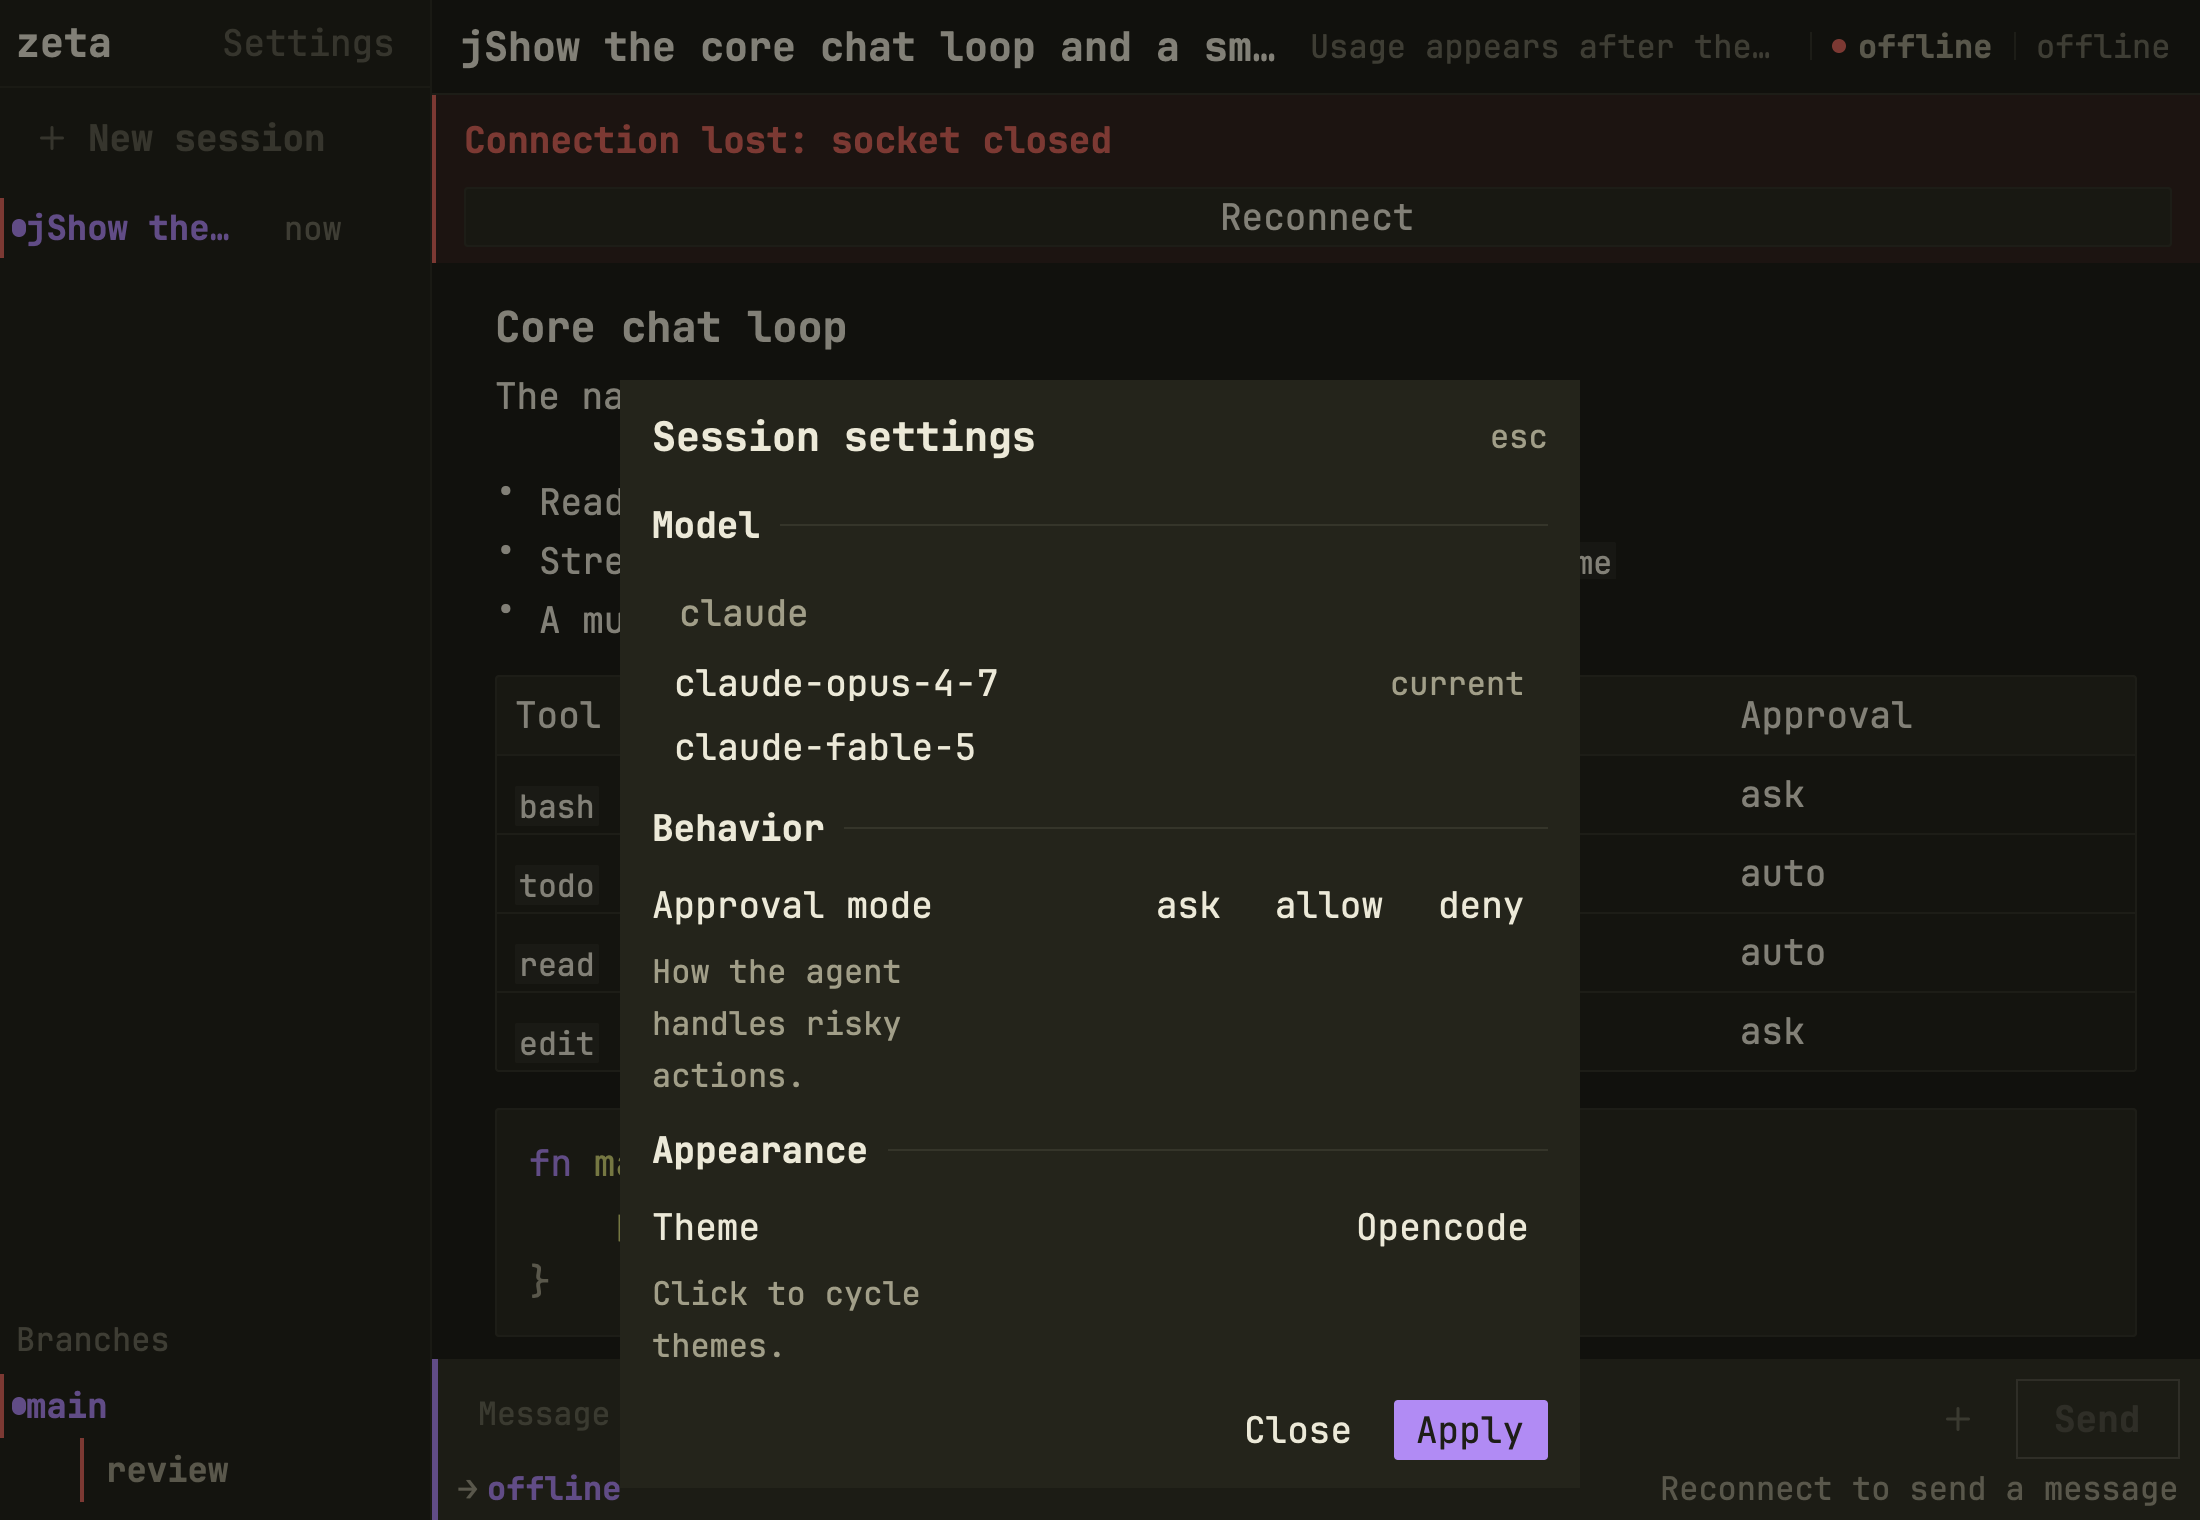
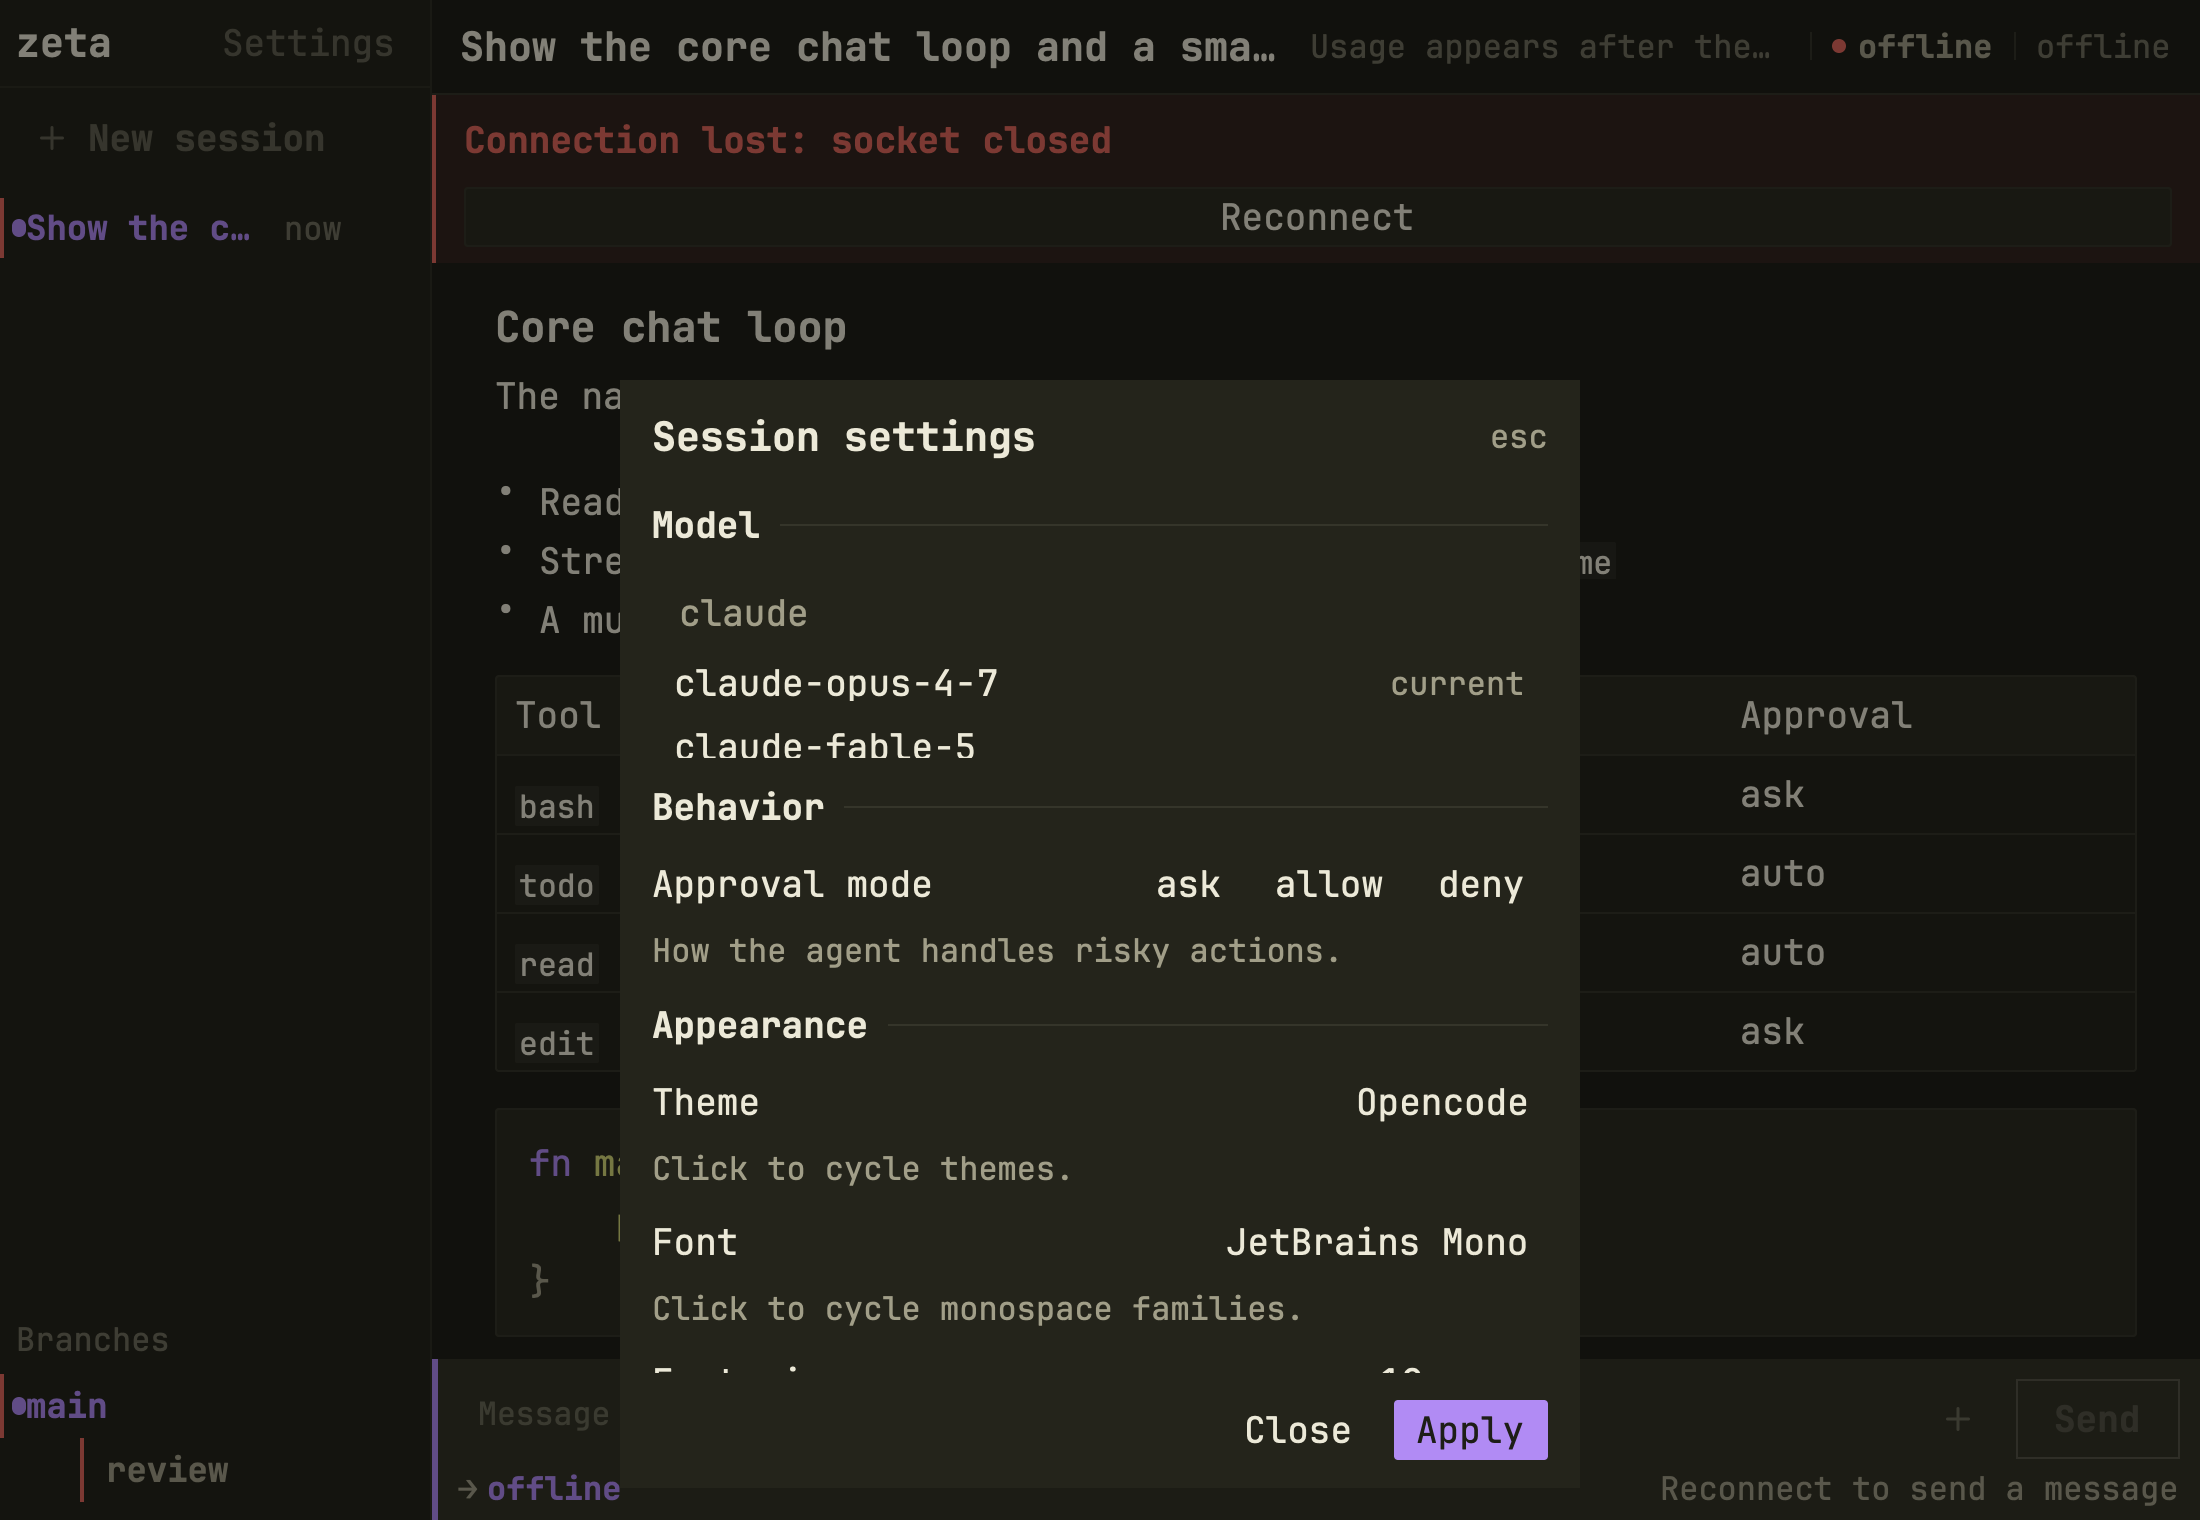
ZETA-128: Wide row description + shrink model list
The 96px cap on SETTINGS_MODEL_LIST_MAX_HEIGHT trimmed the list only
when the catalog exceeded two rows, so it did nothing for the shipped
after-screenshot (two-model catalog fits in ~92px). The real cause of
the mid-line clip was the row-description caption pinned to the label
column width (140px at 13px), which wrapped every caption to 2-3 lines
and pushed the Font-size row's caption below the sections wrapper's
clip. Give the caption the full row width — one short line each, well
inside the panel at 13px.

Keep the model-list cap at 96px anyway so an eight-row multi-model
catalog scrolls even at 18px, which the round-3 focus-scroll test now
exercises with real Tab keystrokes.

Recaptured after-screenshots at 13px and 18px show:
- title / sidebar / composer echo read "Show the core chat loop..."
  without the round-3 stray "j" prefix
- every Appearance row description ("Whole pixels, 11 to 18.") paints
  in full at 13px above Close/Apply
- at the 18px picker MAX the sections wrapper scrolls; individual
  controls remain reachable via Tab (locked by
  `settings_tab_stops_stay_visible_inside_the_viewport_at_18px`)

diff --git a/gui/src/theme.rs b/gui/src/theme.rs
@@ -183,12 +183,14 @@ pub const SETTINGS_ROW_DESCRIPTION_GAP: Pixels = px(2.);
 /// Maximum height for the Model list inside the Settings modal. The list
 /// scrolls beyond this so the three-section body (Model + Behavior +
 /// Appearance) plus optional credential alert fits inside the 760px test
-/// viewport across every picker base (11px…18px). Round-4 shrank this cap
-/// from 160px to 120px: at 13px, the pre-round-4 160px cap pushed the
-/// three Appearance-row descriptions down until the Font-size row's
-/// caption clipped mid-line above the Close/Apply row. 120px still holds
-/// three 32px model rows plus a group heading before the list scrolls.
-pub const SETTINGS_MODEL_LIST_MAX_HEIGHT: Pixels = px(120.);
+/// viewport across every picker base (11px…18px). Round-4 shrank this
+/// cap from 160px to 96px: the pre-round-4 160px cap pushed the three
+/// Appearance-row descriptions down until the Font-size row's caption
+/// clipped mid-line above the Close/Apply row. 96px still holds two 32px
+/// model rows and a group heading before the list scrolls, and clears
+/// the last Appearance-row description off the sections wrapper's clip
+/// so nothing paints half-cut.
+pub const SETTINGS_MODEL_LIST_MAX_HEIGHT: Pixels = px(96.);
 
 /// Absolute ceiling for the Settings panel's rendered height. The panel
 /// still sizes off the viewport shelf below the 25% modal-top offset so
@@ -1794,7 +1796,7 @@ mod tests {
         assert_eq!(SETTINGS_SECTION_GAP, px(10.));
         assert_eq!(SETTINGS_ROW_GAP, px(6.));
         assert_eq!(SETTINGS_ROW_DESCRIPTION_GAP, px(2.));
-        assert_eq!(SETTINGS_MODEL_LIST_MAX_HEIGHT, px(120.));
+        assert_eq!(SETTINGS_MODEL_LIST_MAX_HEIGHT, px(96.));
         assert_eq!(SETTINGS_PANEL_MAX_HEIGHT, px(560.));
         // Label column scales with base font size so long labels
         // ("Approval mode") never overflow the column at the picker's

diff --git a/gui/src/main.rs b/gui/src/main.rs
@@ -2707,10 +2707,19 @@ pub(crate) fn settings_row(
         .gap(theme::SETTINGS_ROW_DESCRIPTION_GAP)
         .child(header);
     if let Some(text) = description {
+        // Description spans the full row width, not just the label column,
+        // so short captions ("Whole pixels, 11 to 18.") stay on a single
+        // line at 13px. Constraining the caption to `column` (140px at
+        // 13px) wrapped every caption to two or three lines and pushed the
+        // Font-size row's caption below the sections wrapper's clip in
+        // the shipped after-screenshot ("Whole pixels, 11 to..." with the
+        // "18." sliced off). Row width still keeps the caption aligned
+        // under its own row's header, so the visual "subordinate line"
+        // shape reads the same.
         row = row.child(
             div()
                 .debug_selector(move || format!("{selector}-description"))
-                .w(column)
+                .w_full()
                 .text_size(theme::label_small(base))
                 .text_color(cx.theme().muted_foreground)
                 .child(text),
